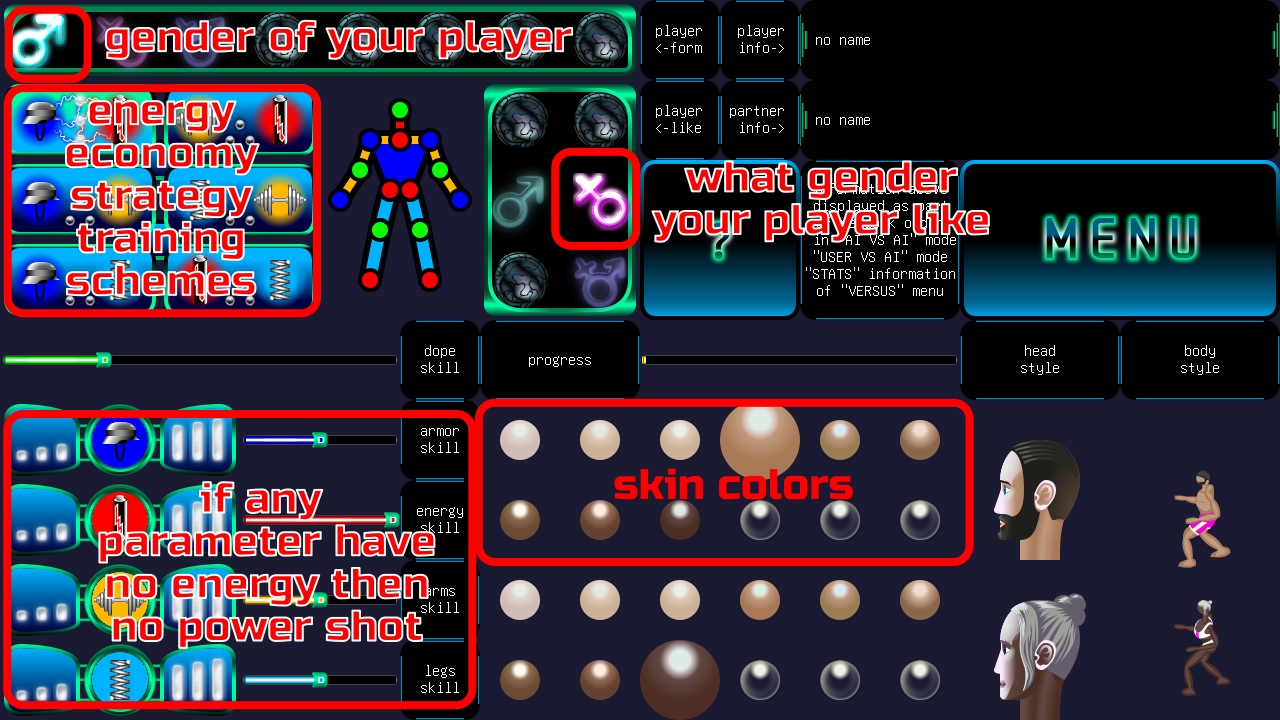
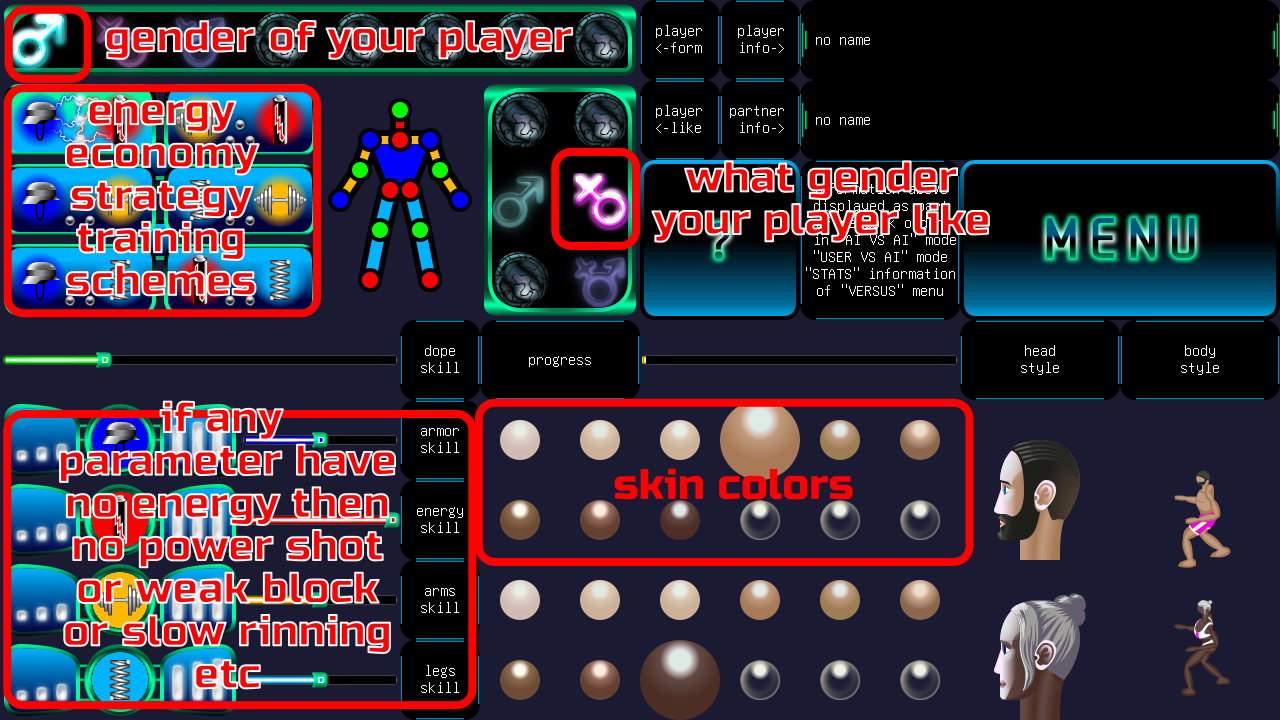
bvc comfort settings

Changed region(s): [[0.0312, 0.55, 0.3438, 0.9778]]

diff --git a/bvc/comfort-settings/comfort-settings.html b/bvc/comfort-settings/comfort-settings.html
@@ -77,6 +77,22 @@
                 change the
                 cost of actions, and safe more energy, that execute power shot.
             </li>
+            <li>
+                <img src="../img/comfort-settings/image-armor.png"> binded to the ground defense & block.
+            </li>
+            <li>
+                <img src="../img/comfort-settings/image-energy.png"> binded to the ground defense & running.
+            </li>
+            <li>
+                <img src="../img/comfort-settings/image-arms.png"> binded to the attack & block.
+            </li>
+            <li>
+                <img src="../img/comfort-settings/image-legs.png"> binded to the attack & running.
+            </li>
+            <li>
+                when skills bars is empty in time of match, the quality of binded actions will lower and actions will
+                unstable, to simulate tired condition. These rules apply to both teams.
+            </li>
         </ul>
     </div>
 
